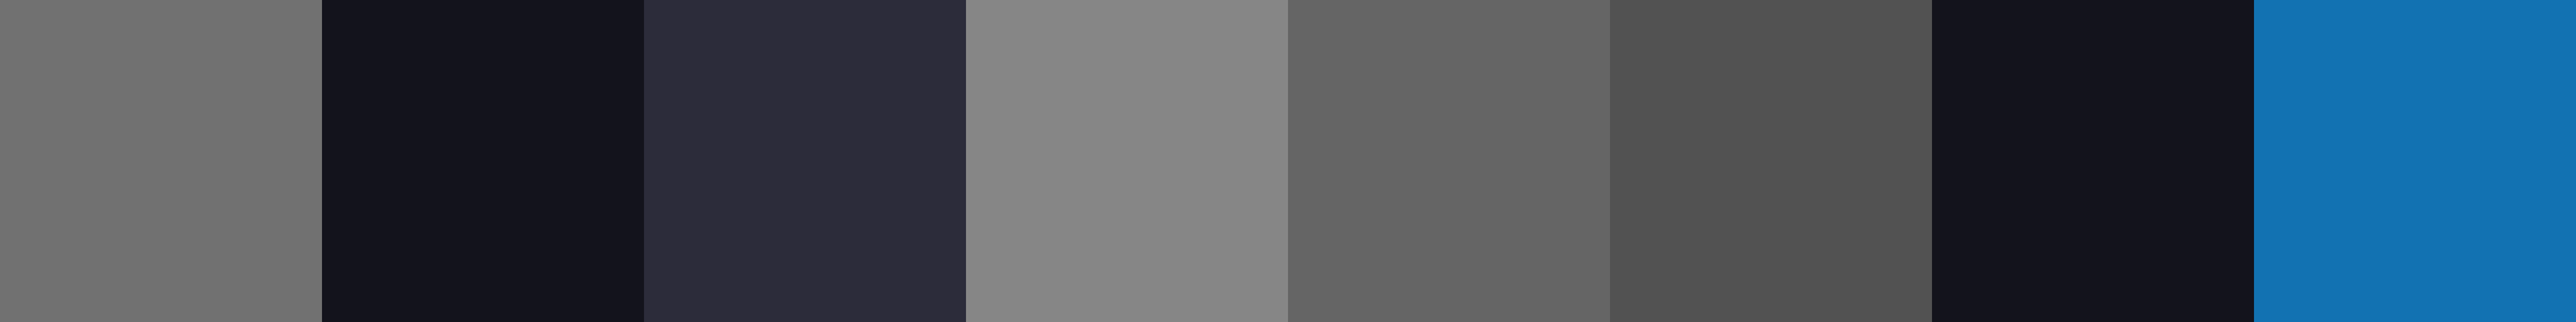
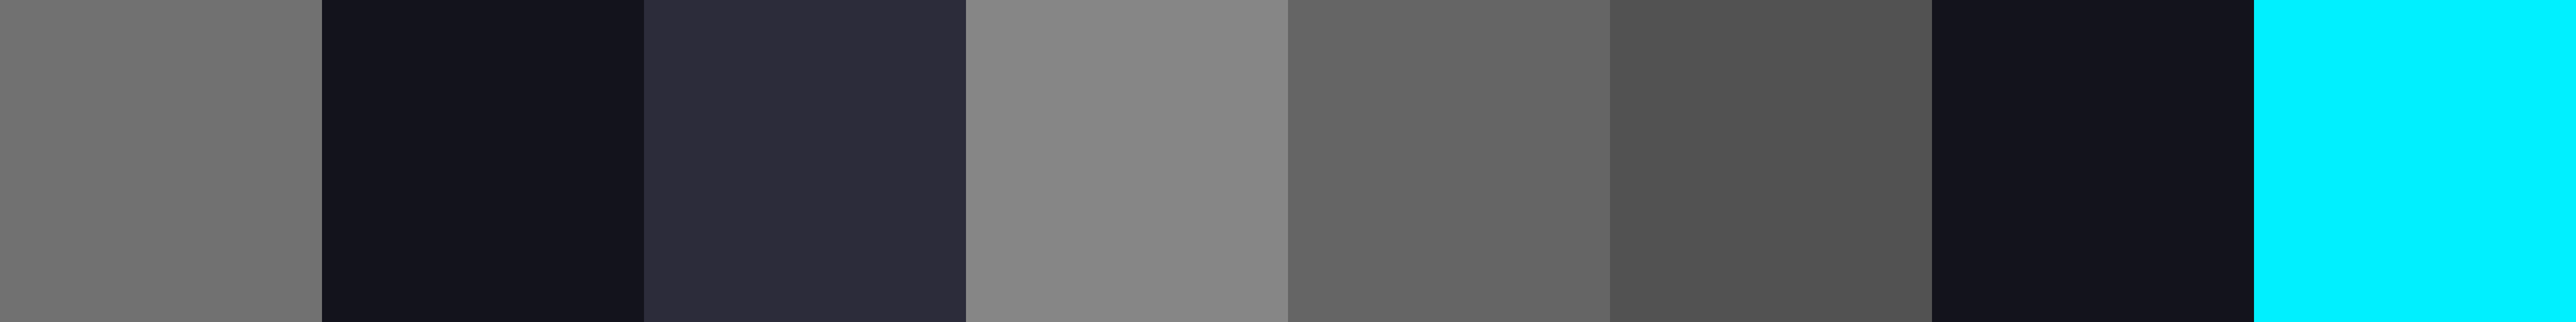
button for attack added

Changed region(s): [[0.875, 0.0, 1.0, 1.0]]

diff --git a/components/ThreeScene.tsx b/components/ThreeScene.tsx
@@ -135,17 +135,6 @@ export default function ThreeScene() {
 
   return (
     <div className="relative h-[500px] w-full">
-      <div className="absolute top-4 right-4 z-10 flex flex-col gap-2">
-        <select
-          className="rounded bg-gray-800 px-2 py-1 text-white"
-          value={animation}
-          onChange={(e) => setAnimation(e.target.value)}
-        >
-          <option value="Idle">Idle</option>
-          <option value="Slash">Slash</option>
-          <option value="PowerUp">PowerUp</option>
-        </select>
-      </div>
       <Canvas shadows gl={{ alpha: true }} camera={{ position: [-1.5, 1.5, 4], fov: 40 }}>
         <ambientLight intensity={1.5} />
         <directionalLight
@@ -166,6 +155,30 @@ export default function ThreeScene() {
         <CameraHandler />
         <OrbitControls target={[0, 1, 0]} />
       </Canvas>
+      <div className="absolute bottom-0 left-1/2 z-10 -translate-x-1/2 transform">
+        <button
+          onClick={() => setAnimation('Slash')}
+          className="flex items-center gap-2 rounded-full bg-blue-600 px-6 py-3 font-bold text-[#00f0ff] transition-colors hover:bg-blue-700"
+        >
+          Use Sword
+          <svg
+            xmlns="http://www.w3.org/2000/svg"
+            width="24"
+            height="24"
+            viewBox="0 0 24 24"
+            fill="none"
+            stroke="currentColor"
+            strokeWidth="2"
+            strokeLinecap="round"
+            strokeLinejoin="round"
+          >
+            <polyline points="14.5 17.5 3 6 3 3 6 3 17.5 14.5" />
+            <line x1="13" y1="19" x2="19" y2="13" />
+            <line x1="16" y1="16" x2="20" y2="20" />
+            <line x1="19" y1="21" x2="21" y2="19" />
+          </svg>
+        </button>
+      </div>
     </div>
   )
 }
